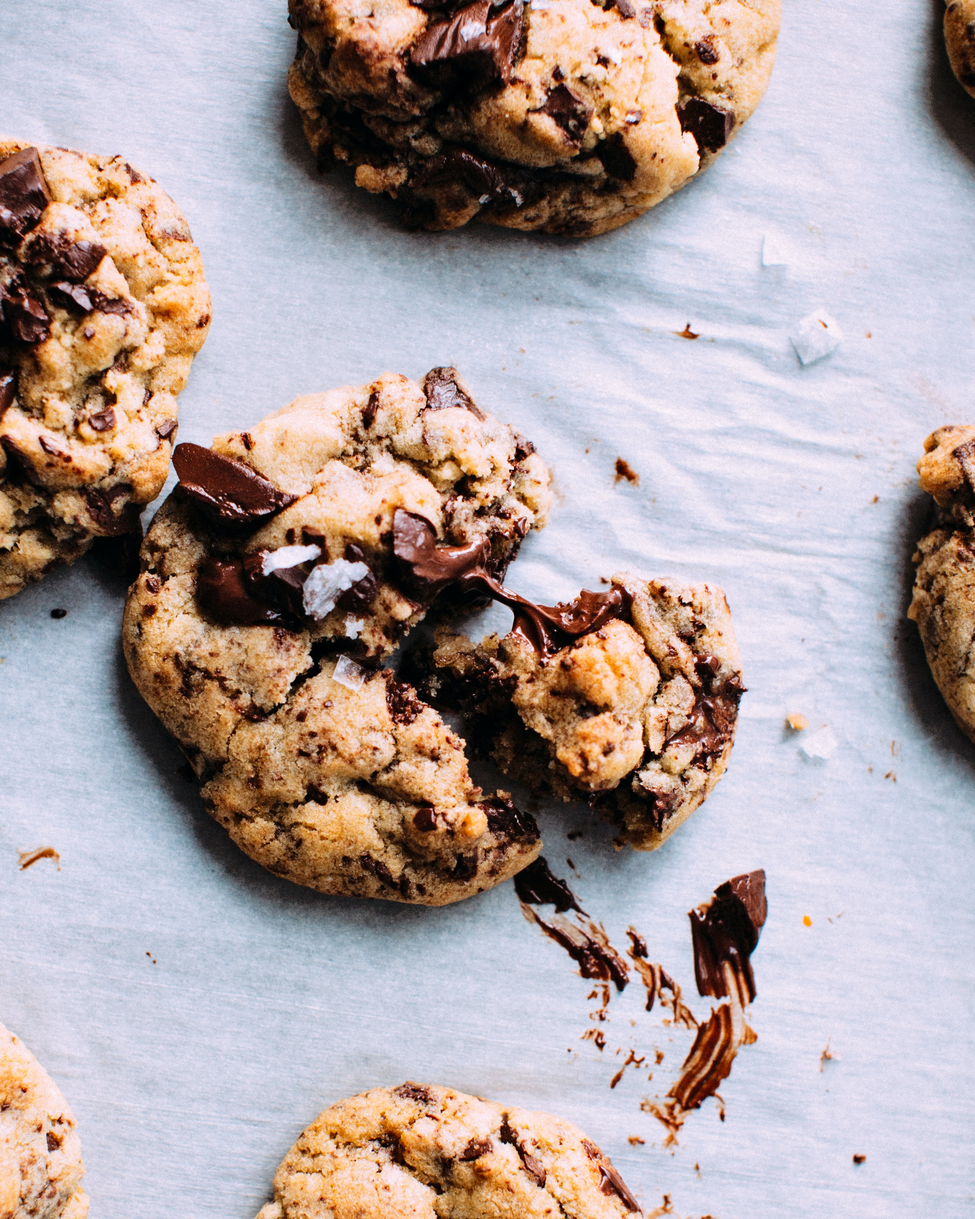
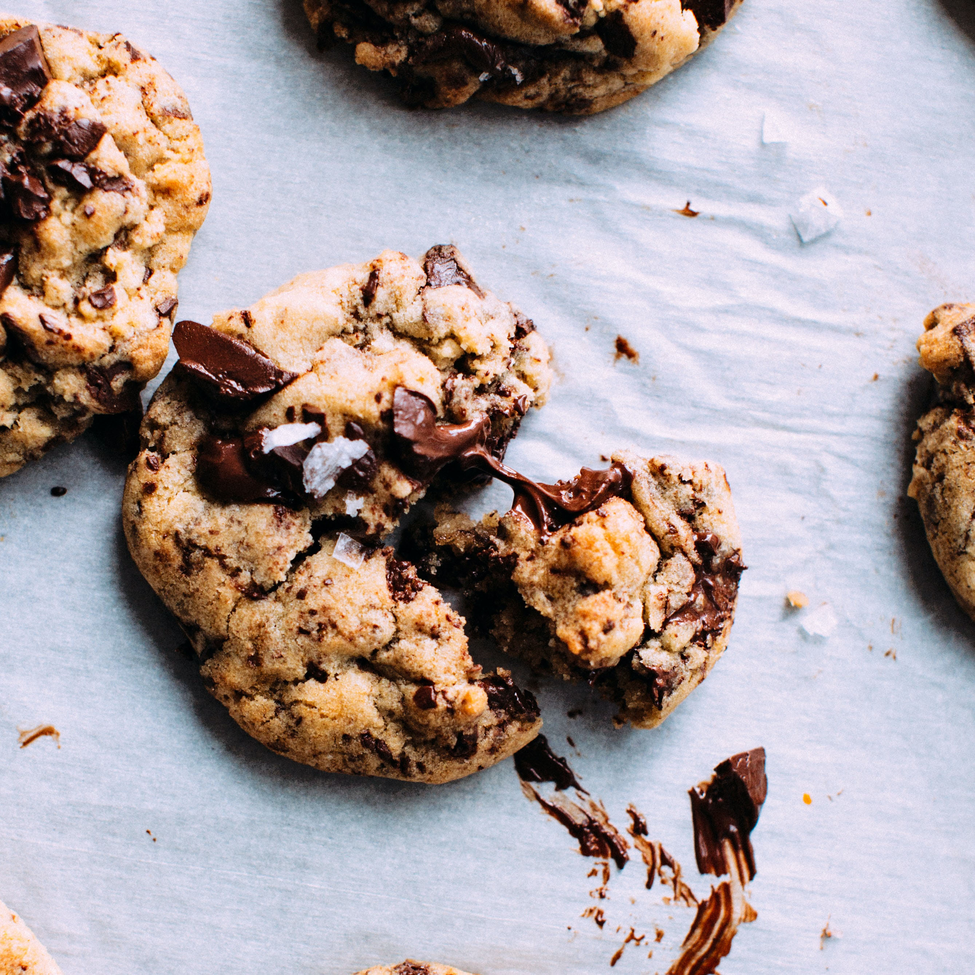
Add files via upload

diff --git a/grc339/digital-magazine/index.html b/grc339/digital-magazine/index.html
@@ -18,7 +18,7 @@
             <h1> <a href="index.html"><img src="logo.png" alt="Logo of Sea and Salt."></a> </h1>
             <nav>
                <ul>
-                  <li><a href="#">Photo Gallery</a></li>
+                  <li><a href="photogallery.html">Photo Gallery</a></li>
                   <li><a href="#">Recipes</a></li>
                   <li><a href="#">Blog</a></li>
                   <li><a href="#">Contact Us</a></li>
@@ -29,15 +29,15 @@
             <section class="mainStory">
                <a href="mainstory.html">
                   <figure>
-                     <img src="cookies.jpg" alt="Gooey chocolate chip cookies on parchment.">
-                  </figure>
-                  <h3>Must-See Bakeries in Carmel-by-the-Sea</h3>
-                  <p>
-                     Carmel-by-the-Sea, California is paradise for people who love the beach, fine wines and quaint downtown areas. It's also paradise for people who adore delectable baked goods. Who doesn't, anyway? Visitors who are planning a trip to the idyllic city on California's Central Coast will have a blast enjoying all of their options in tasty bakeries.
-                  </p>
-                  <p>
-                     With a sweet treat in hand, visiting one of Carmel's beaches is a must. At the end of Ocean Avenue, Carmel Beach is one of the most breathtaking spots on California's Central Coast. From morning to night Carmel Beach attracts visitors and locals alike to take in the majestic scenery. Additionally, fans of delectable dining have no complaints when they visit gorgeous Carmel-by-the-Sea in California. Great Italian dining options in Carmel are plentiful. Finally, don't forget to check out the beautiful Carmel Mission and other landmarks on your trip. Article by whatsupmonterey.com.
-                  </p>
+                     <div>
+               <a href="mainstory.html"><img src="macarons.jpg" alt="Multi-colored macron cookies with filling, including colors of orange, green, and blue."></a>
+               </div>
+               </figure>
+               <h3 class="mainStoryHeader"><a href="mainstory.html">Must-See Bakeries in Carmel-by-the-Sea</a></h3>
+               <p>
+                  <a href="mainstory.html">
+                  Carmel-by-the-Sea, California is paradise for people who love the beach, fine wines and quaint downtown areas. It's also paradise for people who adore delectable baked goods. Who doesn't, anyway? Visitors who are planning a trip to the idyllic city on California's Central Coast will have a blast enjoying all of their options in tasty bakeries.</a>
+               </p>
                </a>
             </section>
             <section class="storyWithImage">
@@ -56,11 +56,23 @@
                <!-- ★ Example of a teaser with image.  You may want to give it a different class. -->
                <a href="#">
                   <figure>
-                     <img src="macrons.jpg" alt="Multi-colored macron cookies with filling, including colors of orange, green, and blue.">
+                     <img src="cookies.jpg" alt="Gooey chocolate chip cookies on parchment.">
                   </figure>
-                  <h3>Multi-Colored Macrons</h3>
+                  <h3>Sea Salt Chocolate Chip Cookies</h3>
                   <p>
-                     These macron cookies are light and fluffy with creamy filling. Check out this recipe. for a variety of different fillings and flavors.
+                     These chocolate chip cookies are gooey and delicious – and sure to be a family favorite!
+                  </p>
+               </a>
+            </section>
+            <section class="storyWithImage">
+               <!-- ★ Example of a teaser with image.  You may want to give it a different class. -->
+               <a href="photogallery.html">
+                  <figure>
+                     <img src="bakery.jpg" alt="Treats on display in a bakery including bread, donuts, and other baked goods. Bakers can be seen in the background.">
+                  </figure>
+                  <h3>Photo Gallery</h3>
+                  <p>
+                     For more baking inspiration, or to see additionall breathtaking views, check out our photo gallery.
                   </p>
                </a>
             </section>
@@ -72,7 +84,7 @@
                   </figure>
                   <h3>Morning Treats: Famous Cinnamon Rolls</h3>
                   <p>
-                     Big, fluffy, soft and absolutely delicious. You’ll never go back to any other recipe once you try this one! This cinnamon roll recipe includes options to make them overnight or ahead of time and even freeze them. Recipe from ambitiouskitchen.com.
+                     Big, fluffy, soft and absolutely delicious. You’ll never go back to any other recipe once you try this one! Recipe from ambitiouskitchen.com.
                   </p>
                </a>
             </section>
@@ -84,7 +96,7 @@
                   </figure>
                   <h3>Strawberry Summer Cupcakes</h3>
                   <p>
-                     Fresh Strawberry Cupcakes topped with homemade Strawberry Buttercream! These fluffy vanilla cupcakes are bursting with juicy pockets of strawberry and the hot pink frosting is so pretty and delicious. These are the perfect Summer cupcakes! Recipe from Baker by Nature.
+                     These fluffy vanilla cupcakes are bursting with juicy pockets of strawberry and the hot pink frosting is so pretty and delicious; these are the perfect Summer cupcakes! Recipe from Baker by Nature.
                   </p>
                </a>
             </section>
@@ -107,7 +119,7 @@
                <a href="#">
                   <h3>Owner of MilkBar bakery, Christina Tosi, Shares her Favorite Savory Desserts</h3>
                   <p>
-                     Even if you consider yourself to be a cookie-making connoisseur, we could all stand to learn a baking tip (or 12) from chef Christina Tosi. The culinary mastermind behind the award-winning Milk Bar bakery, Tosi is the imaginative force behind such delicacies as Cereal Milk Soft Serve and the widely beloved Birthday Cake Truffles. Article from realsimple.com.
+                     The culinary mastermind behind the award-winning Milk Bar bakery, Tosi is the imaginative force behind such delicacies as Cereal Milk Soft Serve and the widely beloved Birthday Cake Truffles. Article from realsimple.com.
                   </p>
                </a>
             </section>
@@ -116,7 +128,7 @@
                <a href="#">
                   <h3>Our Favorite Bakeware for Summer 2021</h3>
                   <p>
-                     Here are our picks for the top baking pans, baking sheets, and baking tools. They’re all easy to clean, easy to use, and will easily help you make the best treats. Article from thekitchn.com.
+                     Here are our picks for the top baking pans, baking sheets, and baking tools – easy to clean, easy to use, and will easily help you make the best treats. Article from thekitchn.com.
                   </p>
                </a>
             </section>

diff --git a/grc339/digital-magazine/photogallery.html b/grc339/digital-magazine/photogallery.html
@@ -1,0 +1,110 @@
+<!doctype html>
+<html>
+   <head>
+      <meta charset="UTF-8" />
+      <meta name="viewport" content="width=device-width, initial-scale=1" />
+      <link rel="stylesheet" type="text/css" href="style.css">
+      <title>Sea and Salt</title>
+      <!-- ★ Please include a proper title.-->
+      <!-- Helpful meta tags to fight GitHub aggresive caching-->
+      <meta http-equiv="Cache-Control" content="no-cache, no-store, must-revalidate" />
+      <meta http-equiv="Pragma" content="no-cache" />
+      <meta http-equiv="Expires" content="0" />
+      <link rel="stylesheet" href="https://use.typekit.net/xde7reg.css">
+   </head>
+   <body>
+      <div class="container">
+         <header>
+            <h1> <a href="index.html"><img src="logo.png" alt="Logo of Sea and Salt."></a> </h1>
+            <nav>
+               <ul>
+                  <li><a href="photogallery.html">Photo Gallery</a></li>
+                  <li><a href="#">Recipes</a></li>
+                  <li><a href="#">Blog</a></li>
+                  <li><a href="#">Contact Us</a></li>
+               </ul>
+            </nav>
+         </header>
+         <input type="radio" name="item" id="photo1" checked="checked">
+         <input type="radio" name="item" id="photo2">
+         <input type="radio" name="item" id="photo3">
+         <input type="radio" name="item" id="photo4">
+         <input type="radio" name="item" id="photo5">
+         <input type="radio" name="item" id="photo6">
+         <input type="radio" name="item" id="photo7">
+         <input type="radio" name="item" id="photo8">
+         <h2>Our Top Images for Summer 2021</h2>
+         <main class="photogallery">
+            <figure>
+               <img src="cake.jpg" alt="4-layer chocolate cake between chocolate ganache on a plate with a fork.">
+               <figcaption>Chocolate Ganache Cake</figcaption>
+               <!-- Photo by Linda Pomerantz Zhang (@lindapz) on Unsplash. -->
+            </figure>
+            <figure>
+               <img src="brownies.jpg" alt="Walnut bronwies cut on parchment.">
+               <figcaption>Walnut Coffee Brownies</figcaption>
+               <!-- Photo by Kyle Cottrell (@kcottrell) on Unsplash. -->
+            </figure>
+            <figure>
+               <img src="brownieCupcakes.jpg" alt="Chocolate cupcakes with frosting and carmel drizzle." > 
+               <figcaption>Chocolate Cupcakes with Carmel Drizzle</figcaption>
+               <!-- Photo by Megan Ellis (@meganmarieee19) on Unsplash. -->
+            </figure>
+            <figure>
+               <img src="sourdough.jpg" alt="A cut loaf of sourdough bread on a piece of parchment.">
+               <figcaption>No-Knead Sourdough Bread</figcaption>
+               <!-- Photo by Daniel Abadia (@pixeldan) on Unsplash. -->
+            </figure>
+            <figure>
+               <img src="cheesecake.jpg" alt="Cheesecake topped with raspberries on a plate with a fork.">
+               <figcaption>Raspberry Cheesecake</figcaption>
+               <!-- Photo by Daniel Abadia (@pixeldan) on Unsplash. -->
+            </figure>
+            <figure>
+               <img src="caliCoastline.jpg" alt="Blue ocean waves and a beach with rocks behind. A waterfall falls from the rocks.">
+               <figcaption>Rugged Coastline</figcaption>
+               <!-- Photo by Daniel Abadia (@pixeldan) on Unsplash. -->
+            </figure>
+            <figure>
+               <img src="cinnamonRoll2.jpg" alt="Gooey cinnamon roll with icing on a plate and a mug of coffee in the background.">
+               <figcaption>Gooey Cinnamon Rolls</figcaption>
+               <!-- Photo by Daniel Abadia (@pixeldan) on Unsplash. -->
+            </figure>
+            <figure>
+               <img src="morroBay.jpg" alt="Morro rock at sunset. The sky is colors of pink, purple, and blue.">
+               <figcaption>Morro Bay Rock</figcaption>
+               <!-- Photo by Daniel Abadia (@pixeldan) on Unsplash. -->
+            </figure>
+         </main>
+         <nav class="photogallery">
+            <label for="photo1">
+            <img src="cake.jpg" alt="4-layer chocolate cake between chocolate ganache on a plate with a fork.">
+            </label>
+            <label for="photo2">
+            <img src="brownies.jpg" alt="Walnut bronwies cut on parchment.">
+            </label>
+            <label for="photo3">
+            <img src="brownieCupcakes.jpg" alt="Chocolate cupcakes with frosting and carmel drizzle.">
+            </label>
+            <label for="photo4">
+            <img src="sourdough.jpg" alt="A cut loaf of sourdough bread on a piece of parchment.">
+            </label>
+            <label for="photo5">
+            <img src="cheesecake.jpg" alt="Cheesecake topped with raspberries on a plate with a fork.">
+            </label>
+            <label for="photo6">
+            <img src="caliCoastline.jpg" alt="Blue ocean waves and a beach with rocks behind. A waterfall falls from the rocks.">
+            </label>
+            <label for="photo7">
+            <img src="cinnamonRoll2.jpg" alt="Gooey cinnamon roll with icing on a plate and a mug of coffee in the background.">
+            </label>
+            <label for="photo8">
+            <img src="morroBay.jpg" alt="Morro rock at sunset. The sky is colors of pink, purple, and blue.">
+            </label>
+         </nav>
+      </div>
+      <footer>
+         <p> All rights reserved.</p>
+      </footer>
+   </body>
+</html>

diff --git a/grc339/digital-magazine/style.css b/grc339/digital-magazine/style.css
@@ -20,6 +20,7 @@ img {
 
 h1 {
 	max-width: 8em;
+	align-content: left;
 }
 
 h3 {
@@ -59,9 +60,6 @@ figure {
     margin: 0;
 }
 
-figcaption {
-	margin-bottom: 2em;
-}
 
 ul {
 	text-decoration: none;
@@ -72,8 +70,12 @@ ul {
 ul li {
 	text-transform: lowercase;
 	color: #fff;
-	margin: 2em;
+	margin-right: 2em;
 	display: inline;
+}
+
+nav {
+	text-align: left;
 }
 
 nav a:hover { /*just nav text is colored here, not all anchor elements*/
@@ -90,12 +92,62 @@ footer {
 	font-family: minerva-modern,sans-serif;
 }
 
+
+main {
+    position: relative;
+    overflow: hidden;
+    padding-bottom: calc(62% + 3em);
+}
+
+main.photogallery figure {
+    width: calc(100%-2em);
+    position: absolute;
+    opacity: 0;
+    transition: opacity .5s;
+}
+
+figcaption {
+	font-family: eb-garamond,serif;
+    font-size: 1em;
+    margin: 1em 0;
+    color: #191102;
+}
+
+
+input:nth-of-type(1):checked ~ main figure:nth-of-type(1),
+input:nth-of-type(2):checked ~ main figure:nth-of-type(2),
+input:nth-of-type(3):checked ~ main figure:nth-of-type(3),
+input:nth-of-type(4):checked ~ main figure:nth-of-type(4),
+input:nth-of-type(5):checked ~ main figure:nth-of-type(5),
+input:nth-of-type(6):checked ~ main figure:nth-of-type(6),
+input:nth-of-type(7):checked ~ main figure:nth-of-type(7),
+input:nth-of-type(8):checked ~ main figure:nth-of-type(8){
+    opacity: 1;
+}
+
+nav.photogallery {
+    display: grid;
+    grid-template-columns: repeat(8, 1fr);
+    grid-gap: .2em;
+}
+
+
+input {
+    display: none;
+}
+
+h3 a {
+	font-family: minerva-modern,sans-serif;
+	color: #6C969D;
+}
+
+
 @media screen and (min-width: 60em) {
 	
 	div.container {
 		display: grid;
 		grid-template-columns: 3fr 1fr;
-		grid-gap: 0 1em;
+		grid-gap: 1em 2em;
 	}
 	
 	header {
@@ -109,9 +161,48 @@ footer {
 		grid-gap: 0 1em;
 	}
 	
+	main.photogallery {
+		grid-column: 1/3;
+	}
+	
+	nav.photogallery {
+		grid-column: 1/3;
+	}
+	
 	section.mainStory {
 		grid-column: 2/4;
 		grid-row: 1/3;
+		display: flex;
+		flex-direction: column;
+	}
+	
+	section.mainStory figure {
+		flex: 1 0 18em;
+		display: flex;
+		flex-direction: column;
+	}
+	
+	section.mainStory figure div {
+		flex: 1 0 18em;
+		background-image: url("macarons.jpg");
+		background-repeat: no-repeat;
+		background-size: cover;
+		background-position: center;
+	}
+	
+	section.mainStory figure div img {
+		height: 100%;
+		opacity: 0;
+	}
+	
+	section.mainStory h3 {
+	 	flex: 0 0 auto;
+		margin: 0;
+	}
+	
+	section.mainStory p {
+		flex: 0 0 auto;
+		margin: 0;
 	}
 	
 	aside {
@@ -122,6 +213,6 @@ footer {
 		grid-column: 1/3;
 		background-color: #8C5E58;
 		color: #fff;
+		margin: 2em;
 	}
-	
 }

diff --git a/grc339/digital-magazine/mainstory.html b/grc339/digital-magazine/mainstory.html
@@ -18,7 +18,7 @@
             <h1> <a href="index.html"><img src="logo.png" alt="Logo of Sea and Salt."></a> </h1>
             <nav>
                <ul>
-                  <li><a href="#">Photo Gallery</a></li>
+                  <li><a href="photogallery.html">Photo Gallery</a></li>
                   <li><a href="#">Recipes</a></li>
                   <li><a href="#">Blog</a></li>
                   <li><a href="#">Contact Us</a></li>
@@ -54,11 +54,11 @@
                <!-- ★ Example of a teaser with image.  You may want to give it a different class. -->
                <a href="#">
                   <figure>
-                     <img src="macrons.jpg" alt="Multi-colored macron cookies with filling, including colors of orange, green, and blue.">
+                     <img src="cookies.jpg" alt="Goeey chocolate chip cookies on parchment.">
                   </figure>
-                  <h3>Multi-Colored Macrons</h3>
+                  <h3>Sea Salt Chocolate Chip Cookies</h3>
                   <p>
-                     These macron cookies are light and fluffy with creamy filling. Check out this recipe. for a variety of different fillings and flavors.
+                     These chocolate chip cookies are gooey and delicious – and sure to be a family favorite!
                   </p>
                </a>
             </section>
